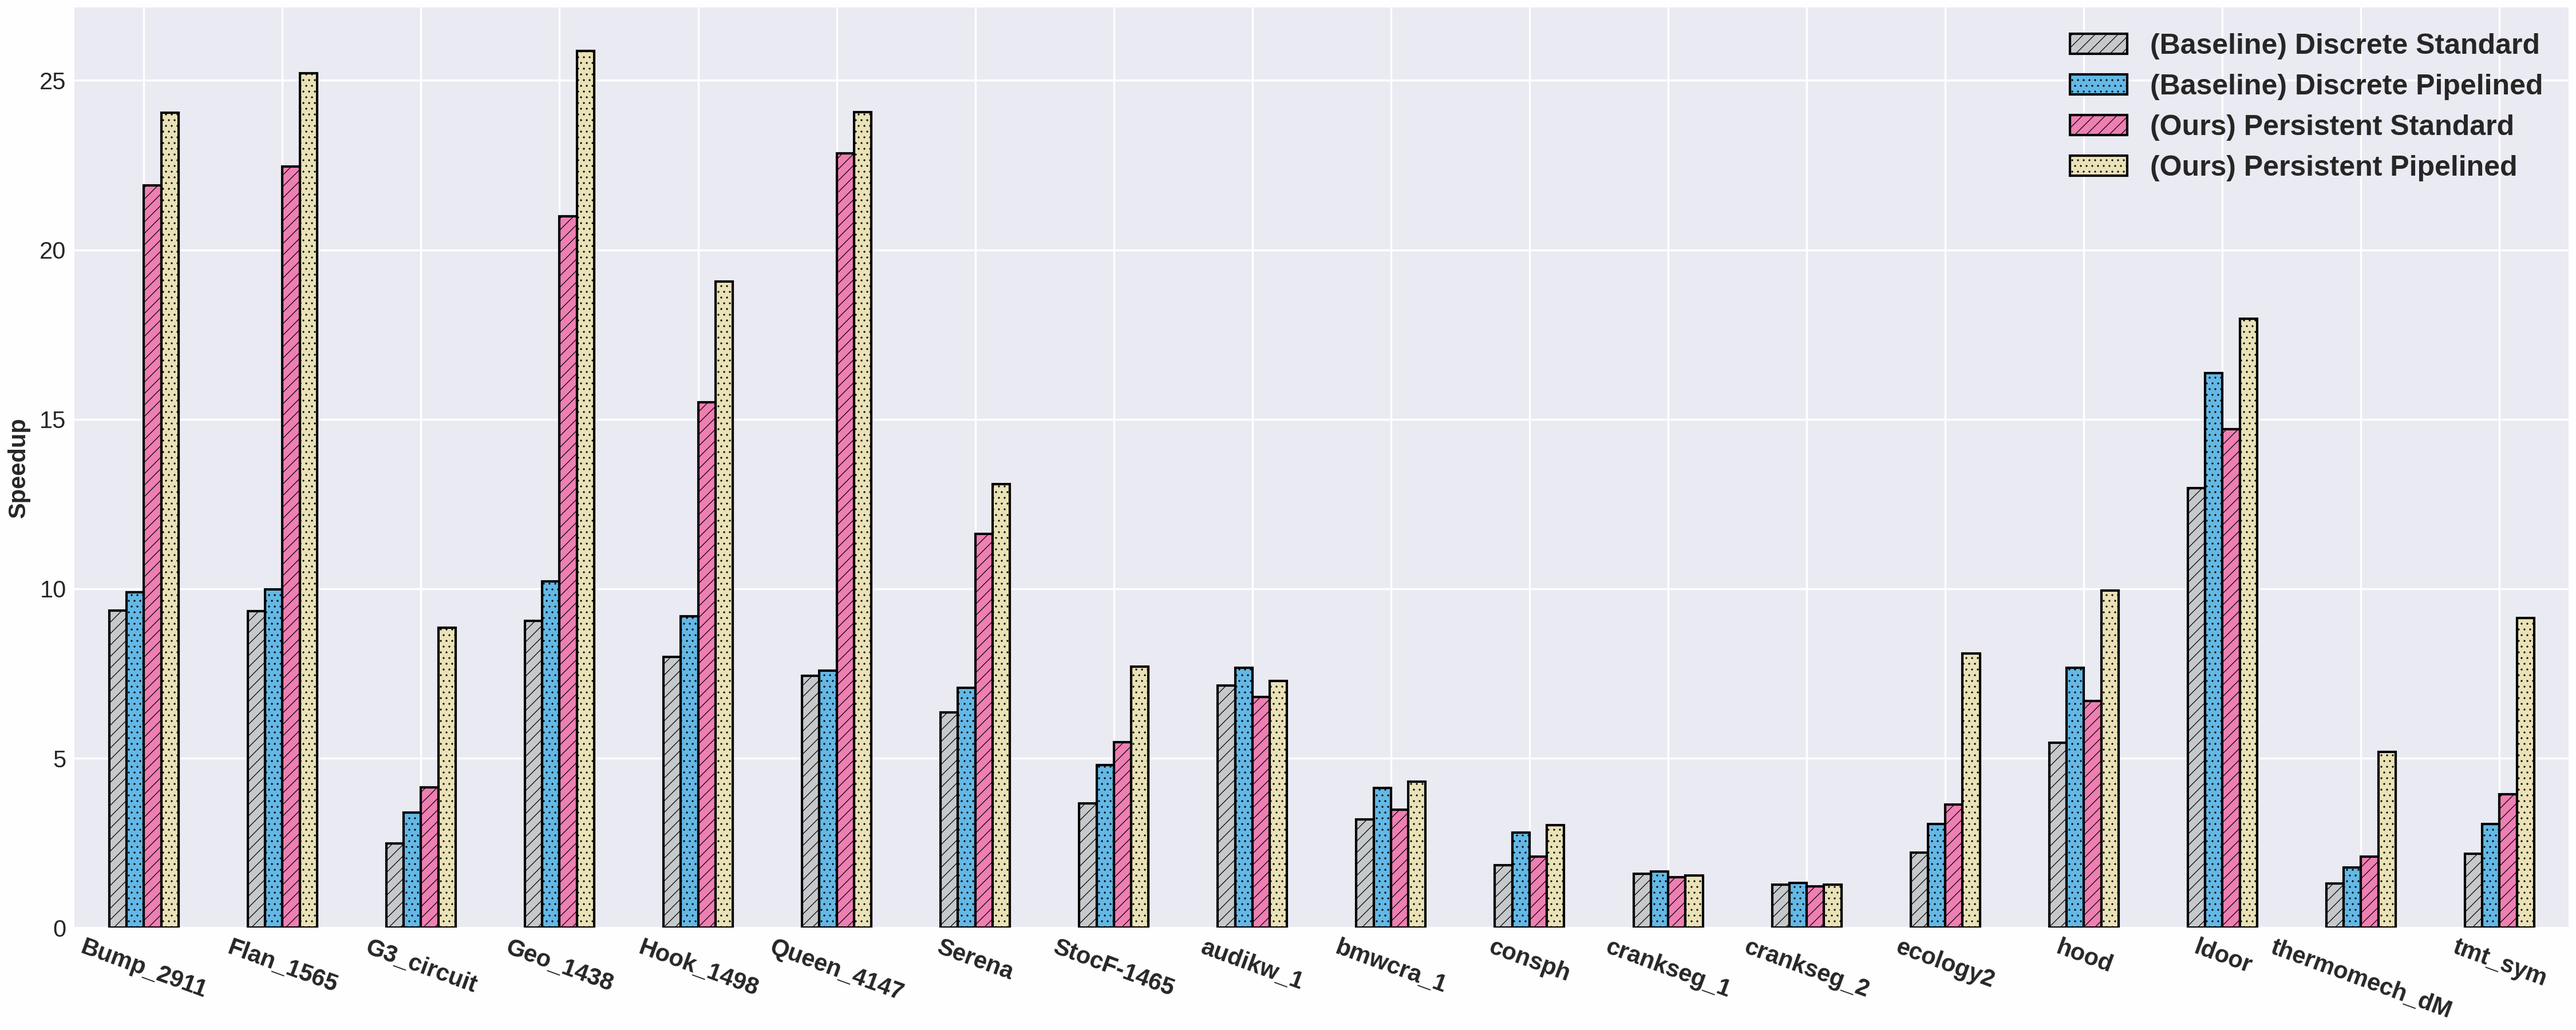
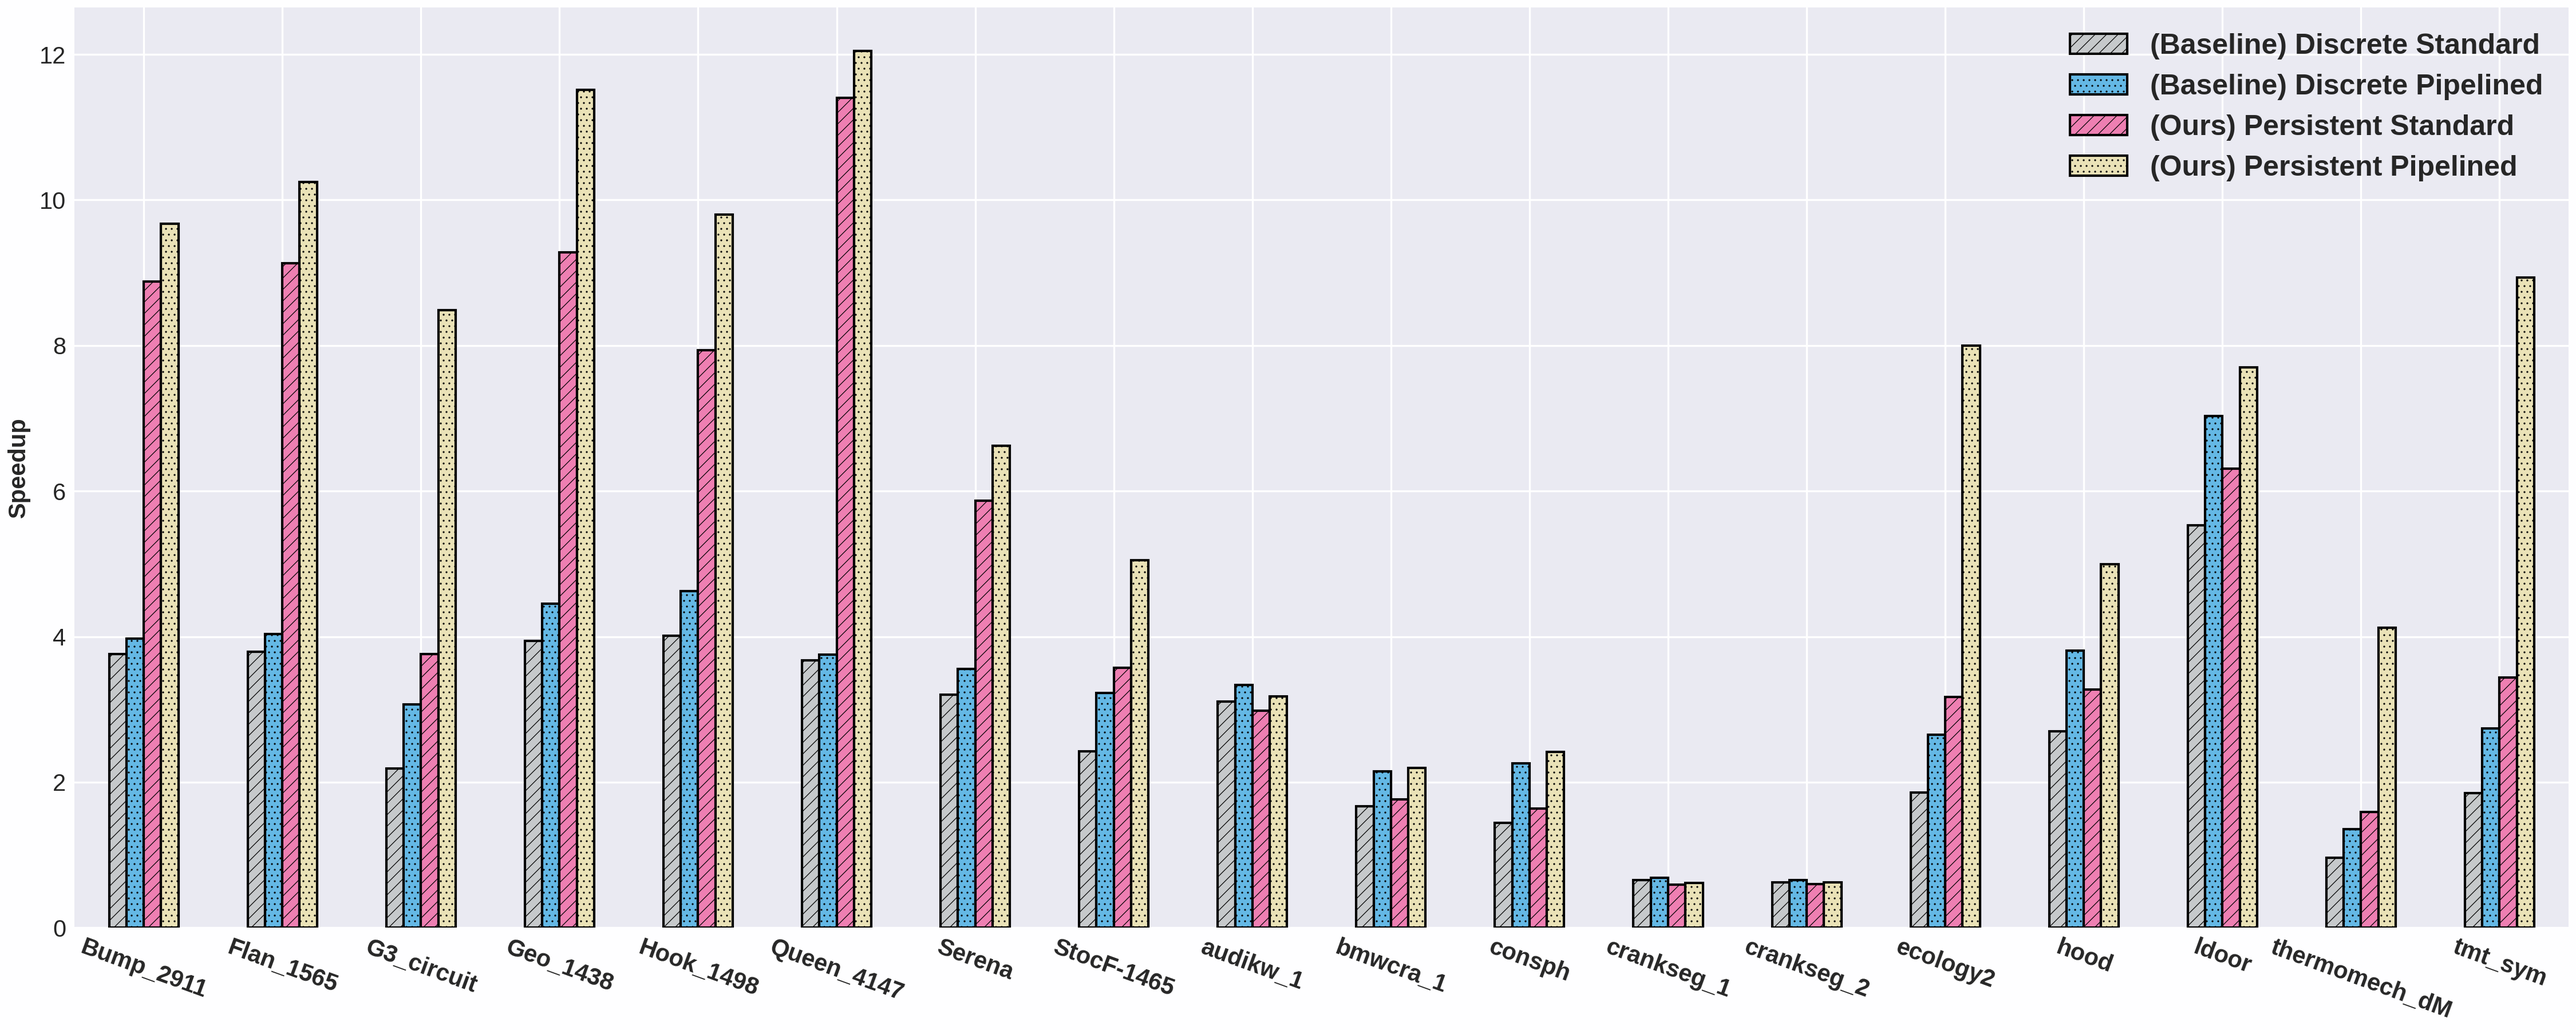
Update script and figures

diff --git a/CG/scripts/plots/plot_constant_num_gpus.py b/CG/scripts/plots/plot_constant_num_gpus.py
@@ -61,70 +61,76 @@ colors = [
 # - '#eae2b7' => Yellow
 
 
+# First file should be the full CSV file
+# Second should be the SingleGPU runtimes
 files = get_files()
 
+full_runtimes_csv = files[0]
+single_gpu_runtimes_csv = files[1]
 
-for file in files:
-    title = file.readline().strip()
+title = full_runtimes_csv.readline().strip()
 
-    data = pd.read_csv(file, index_col='Matrix')
-    data = data.sort_index()
+data = pd.read_csv(full_runtimes_csv, index_col='Matrix')
+data = data.sort_index()
 
-    matrix_names = np.unique(
-        [matrix_name for matrix_name, _ in data.iterrows()])
+single_gpu_baseline_standard_runtimes = pd.read_csv(
+    single_gpu_runtimes_csv, index_col='Matrix')['Runtime']
+single_gpu_baseline_standard_runtimes = single_gpu_baseline_standard_runtimes.sort_index()
 
-    gpu_num_column_labels = [column_label
-                             for column_label in data.columns if 'GPU' in column_label]
+matrix_names = np.unique(
+    [matrix_name for matrix_name, _ in data.iterrows()])
 
-    for matrix_name in matrix_names:
-        if matrix_name not in MATRIX_NAMES:
-            data.drop(matrix_name, inplace=True)
+gpu_num_column_labels = [column_label
+                         for column_label in data.columns if 'GPU' in column_label]
 
-    single_gpu_baseline_standard_runtimes = data.loc[data['Version']
-                                                     == '(Baseline) Discrete Standard']['1 GPU']
+for matrix_name in matrix_names:
+    if matrix_name not in MATRIX_NAMES:
+        data.drop(matrix_name, inplace=True)
+        single_gpu_baseline_standard_runtimes.drop(matrix_name, inplace=True)
 
-    for gpu_num_column_label in gpu_num_column_labels:
-        per_gpu_num_data = data[['Version', gpu_num_column_label]]
-        per_gpu_num_data = per_gpu_num_data.pivot_table(
-            gpu_num_column_label, 'Matrix', 'Version')
 
-        per_gpu_num_data = pd.DataFrame(
-            per_gpu_num_data, columns=VERSIONS_TO_KEEP)
+for gpu_num_column_label in gpu_num_column_labels:
+    per_gpu_num_data = data[['Version', gpu_num_column_label]]
+    per_gpu_num_data = per_gpu_num_data.pivot_table(
+        gpu_num_column_label, 'Matrix', 'Version')
 
-        per_gpu_num_speedup = 1 / per_gpu_num_data.div(
-            single_gpu_baseline_standard_runtimes, axis=0)
+    per_gpu_num_data = pd.DataFrame(
+        per_gpu_num_data, columns=VERSIONS_TO_KEEP)
 
-        axes = per_gpu_num_speedup.plot.bar(
-            color=colors, edgecolor='black', figsize=(15, 6))
+    per_gpu_num_speedup = 1 / per_gpu_num_data.div(
+        single_gpu_baseline_standard_runtimes, axis=0)
 
-        bars = axes.patches
-        patterns = ('/////', '.....', '/////', '.....')
-        hatches = [p for p in patterns for i in range(
-            len(per_gpu_num_speedup))]
+    axes = per_gpu_num_speedup.plot.bar(
+        color=colors, edgecolor='black', figsize=(15, 6))
 
-        for bar, hatch in zip(bars, hatches):
-            bar.set_hatch(hatch)
+    bars = axes.patches
+    patterns = ('/////', '.....', '/////', '.....')
+    hatches = [p for p in patterns for i in range(
+        len(per_gpu_num_speedup))]
 
-        axes.set_ylabel('Speedup', weight='bold')
-        axes.set_xlabel(None)
-        # axes.set_title(f'Speedup per matrix on {gpu_num_column_label}')
-        axes.legend(fancybox=True, prop={'weight': 'bold', 'size': 'large'})
+    for bar, hatch in zip(bars, hatches):
+        bar.set_hatch(hatch)
 
-        # axes.set(xlabel=None)
-        axes.set(title=None)
-        # wrap_labels(axes, 10)
+    axes.set_ylabel('Speedup', weight='bold')
+    axes.set_xlabel(None)
+    # axes.set_title(f'Speedup per matrix on {gpu_num_column_label}')
+    axes.legend(fancybox=True, prop={'weight': 'bold', 'size': 'large'})
 
-        # axes.legend(loc='upper center',
-        #             bbox_to_anchor=(0.5,  # horizontal
-        #                             1.09),  # vertical
-        #             ncol=2, fancybox=True)
+    # axes.set(xlabel=None)
+    axes.set(title=None)
+    # wrap_labels(axes, 10)
 
-        # per_gpu_num_title = f'{title} ({matrix_name})'
-        per_gpu_num_title = gpu_num_column_label
+    # axes.legend(loc='upper center',
+    #             bbox_to_anchor=(0.5,  # horizontal
+    #                             1.09),  # vertical
+    #             ncol=2, fancybox=True)
 
-        plt.xticks(rotation=-20, ha='center', weight='bold')
-        # plt.suptitle(per_gpu_num_title)
-        plt.savefig(
-            MODULE_DIR / ('matrix_speedup_table_' + per_gpu_num_title + '.png'), format='png')
+    # per_gpu_num_title = f'{title} ({matrix_name})'
+    per_gpu_num_title = gpu_num_column_label
 
-    plt.show()
+    plt.xticks(rotation=-20, ha='center', weight='bold')
+    # plt.suptitle(per_gpu_num_title)
+    plt.savefig(
+        MODULE_DIR / ('matrix_speedup_table_' + per_gpu_num_title + '.png'), format='png')
+
+plt.show()
